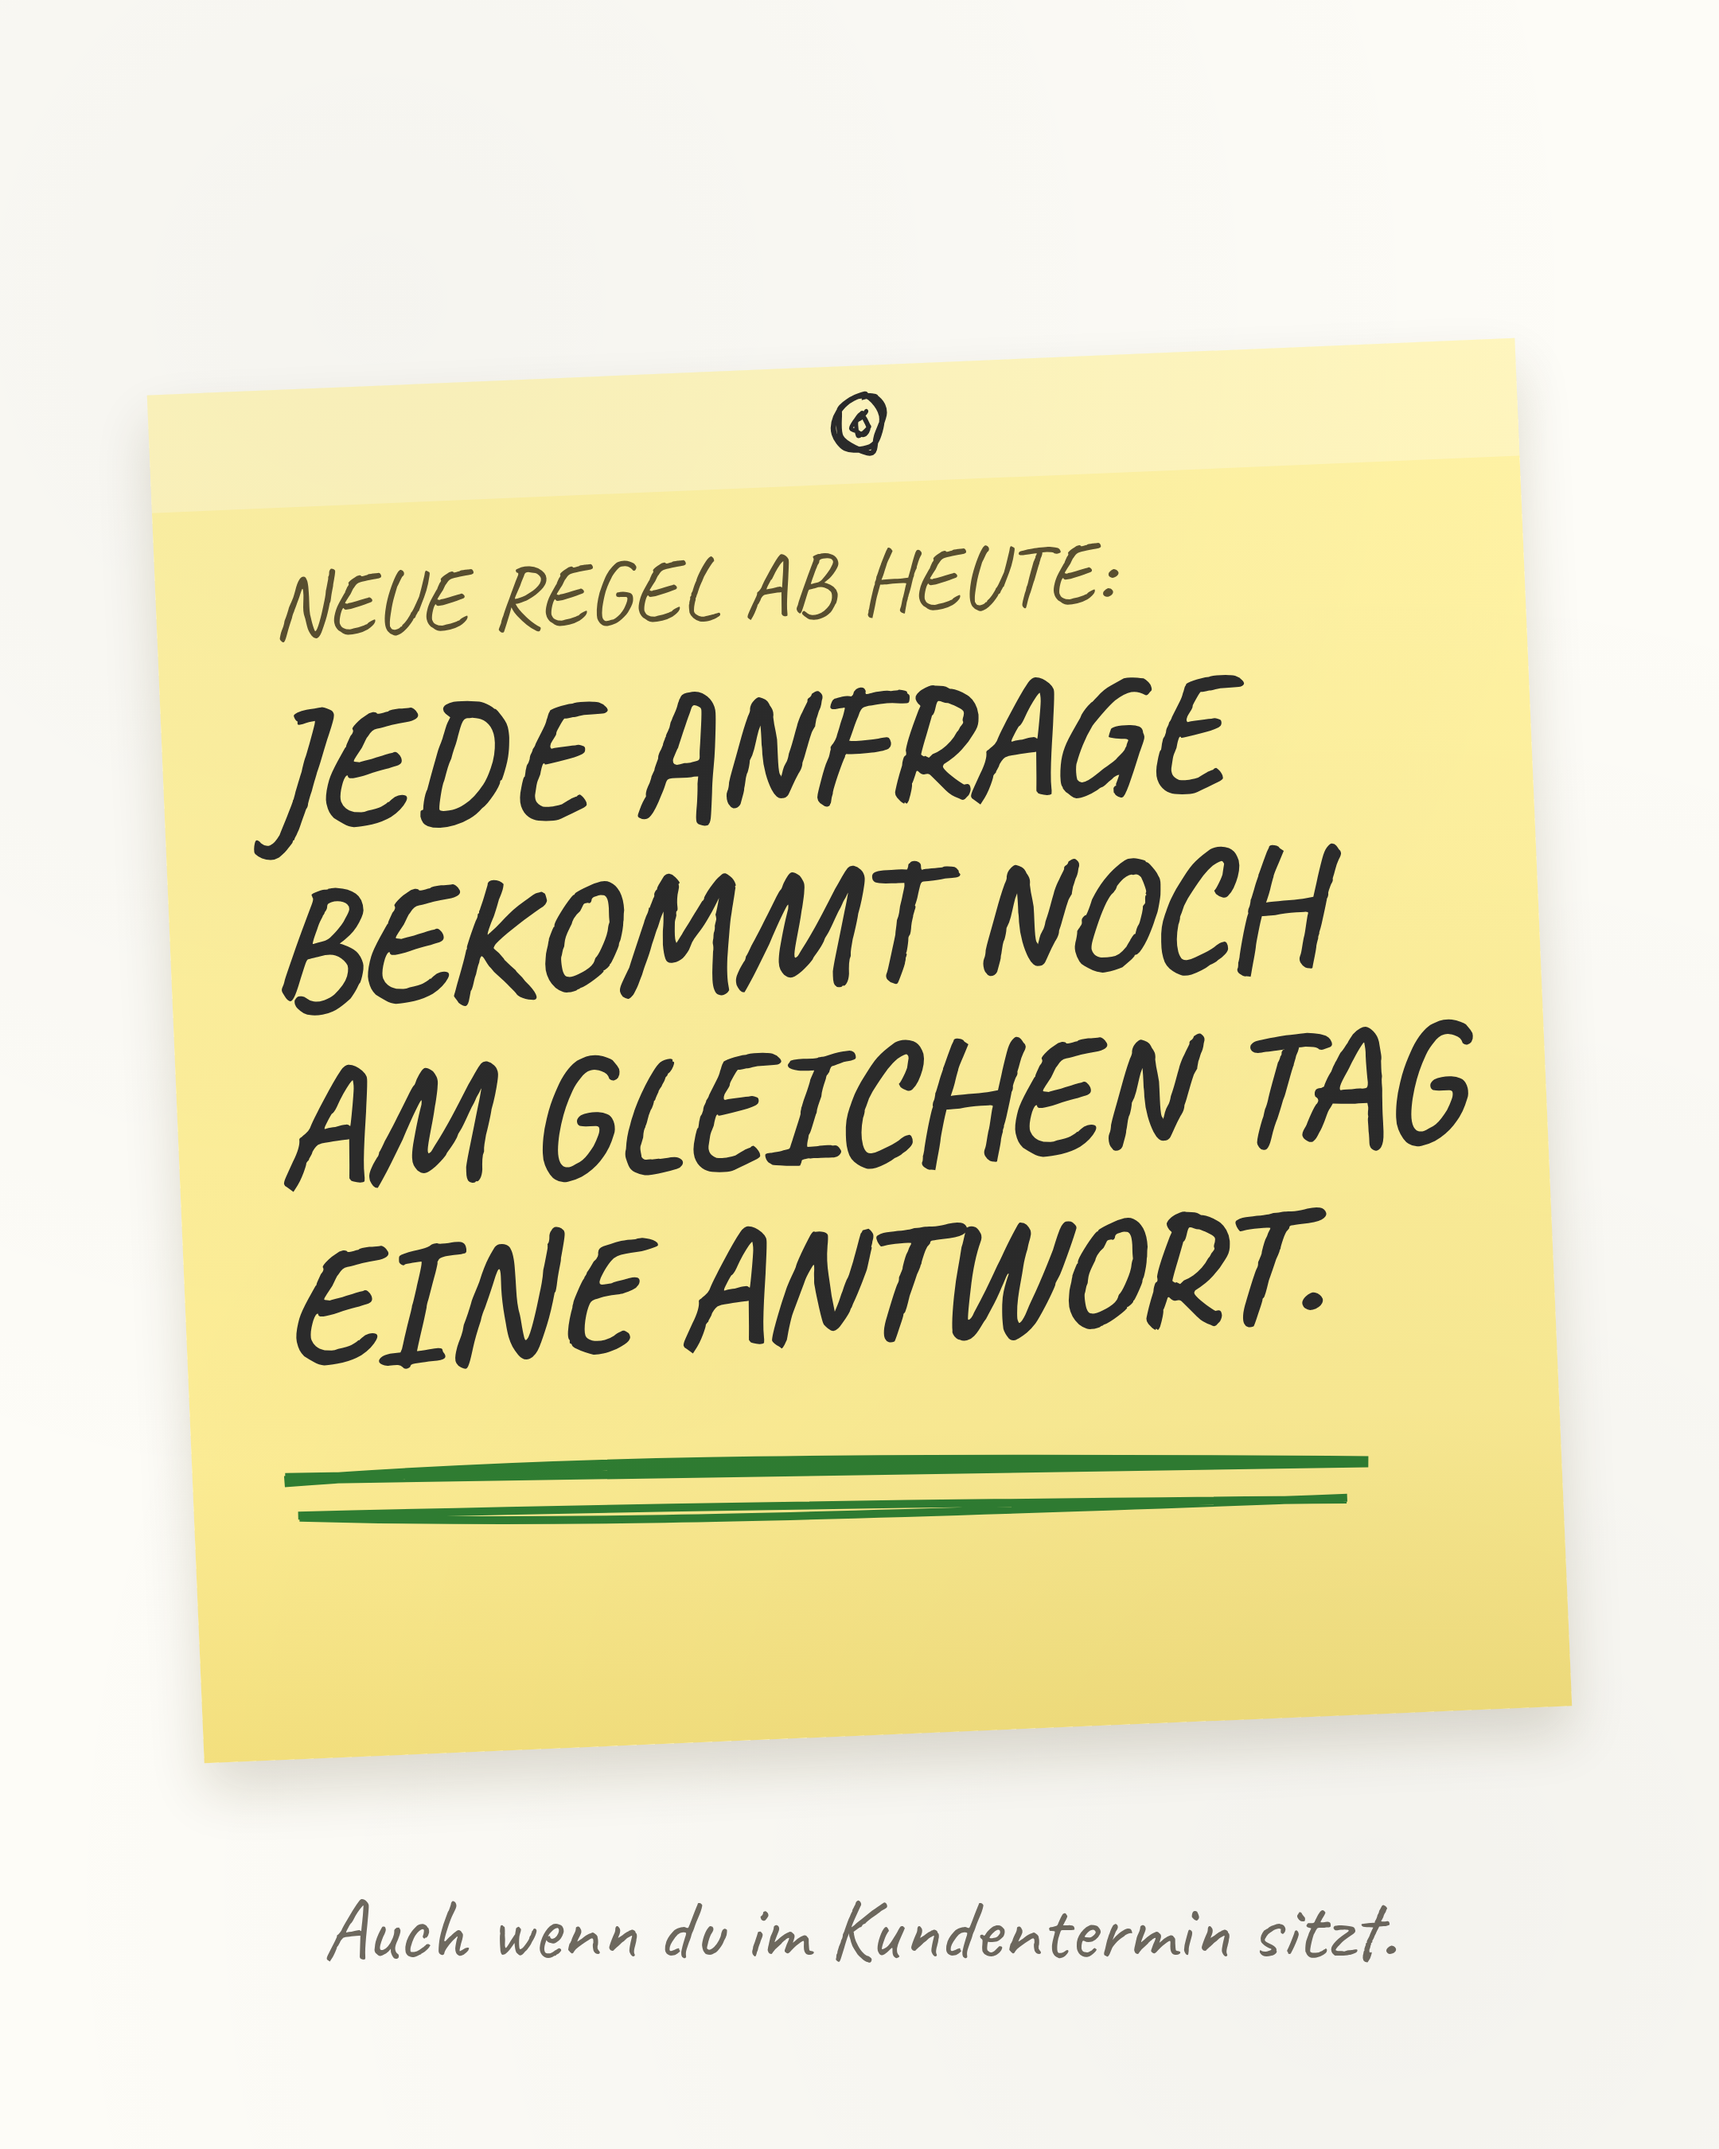
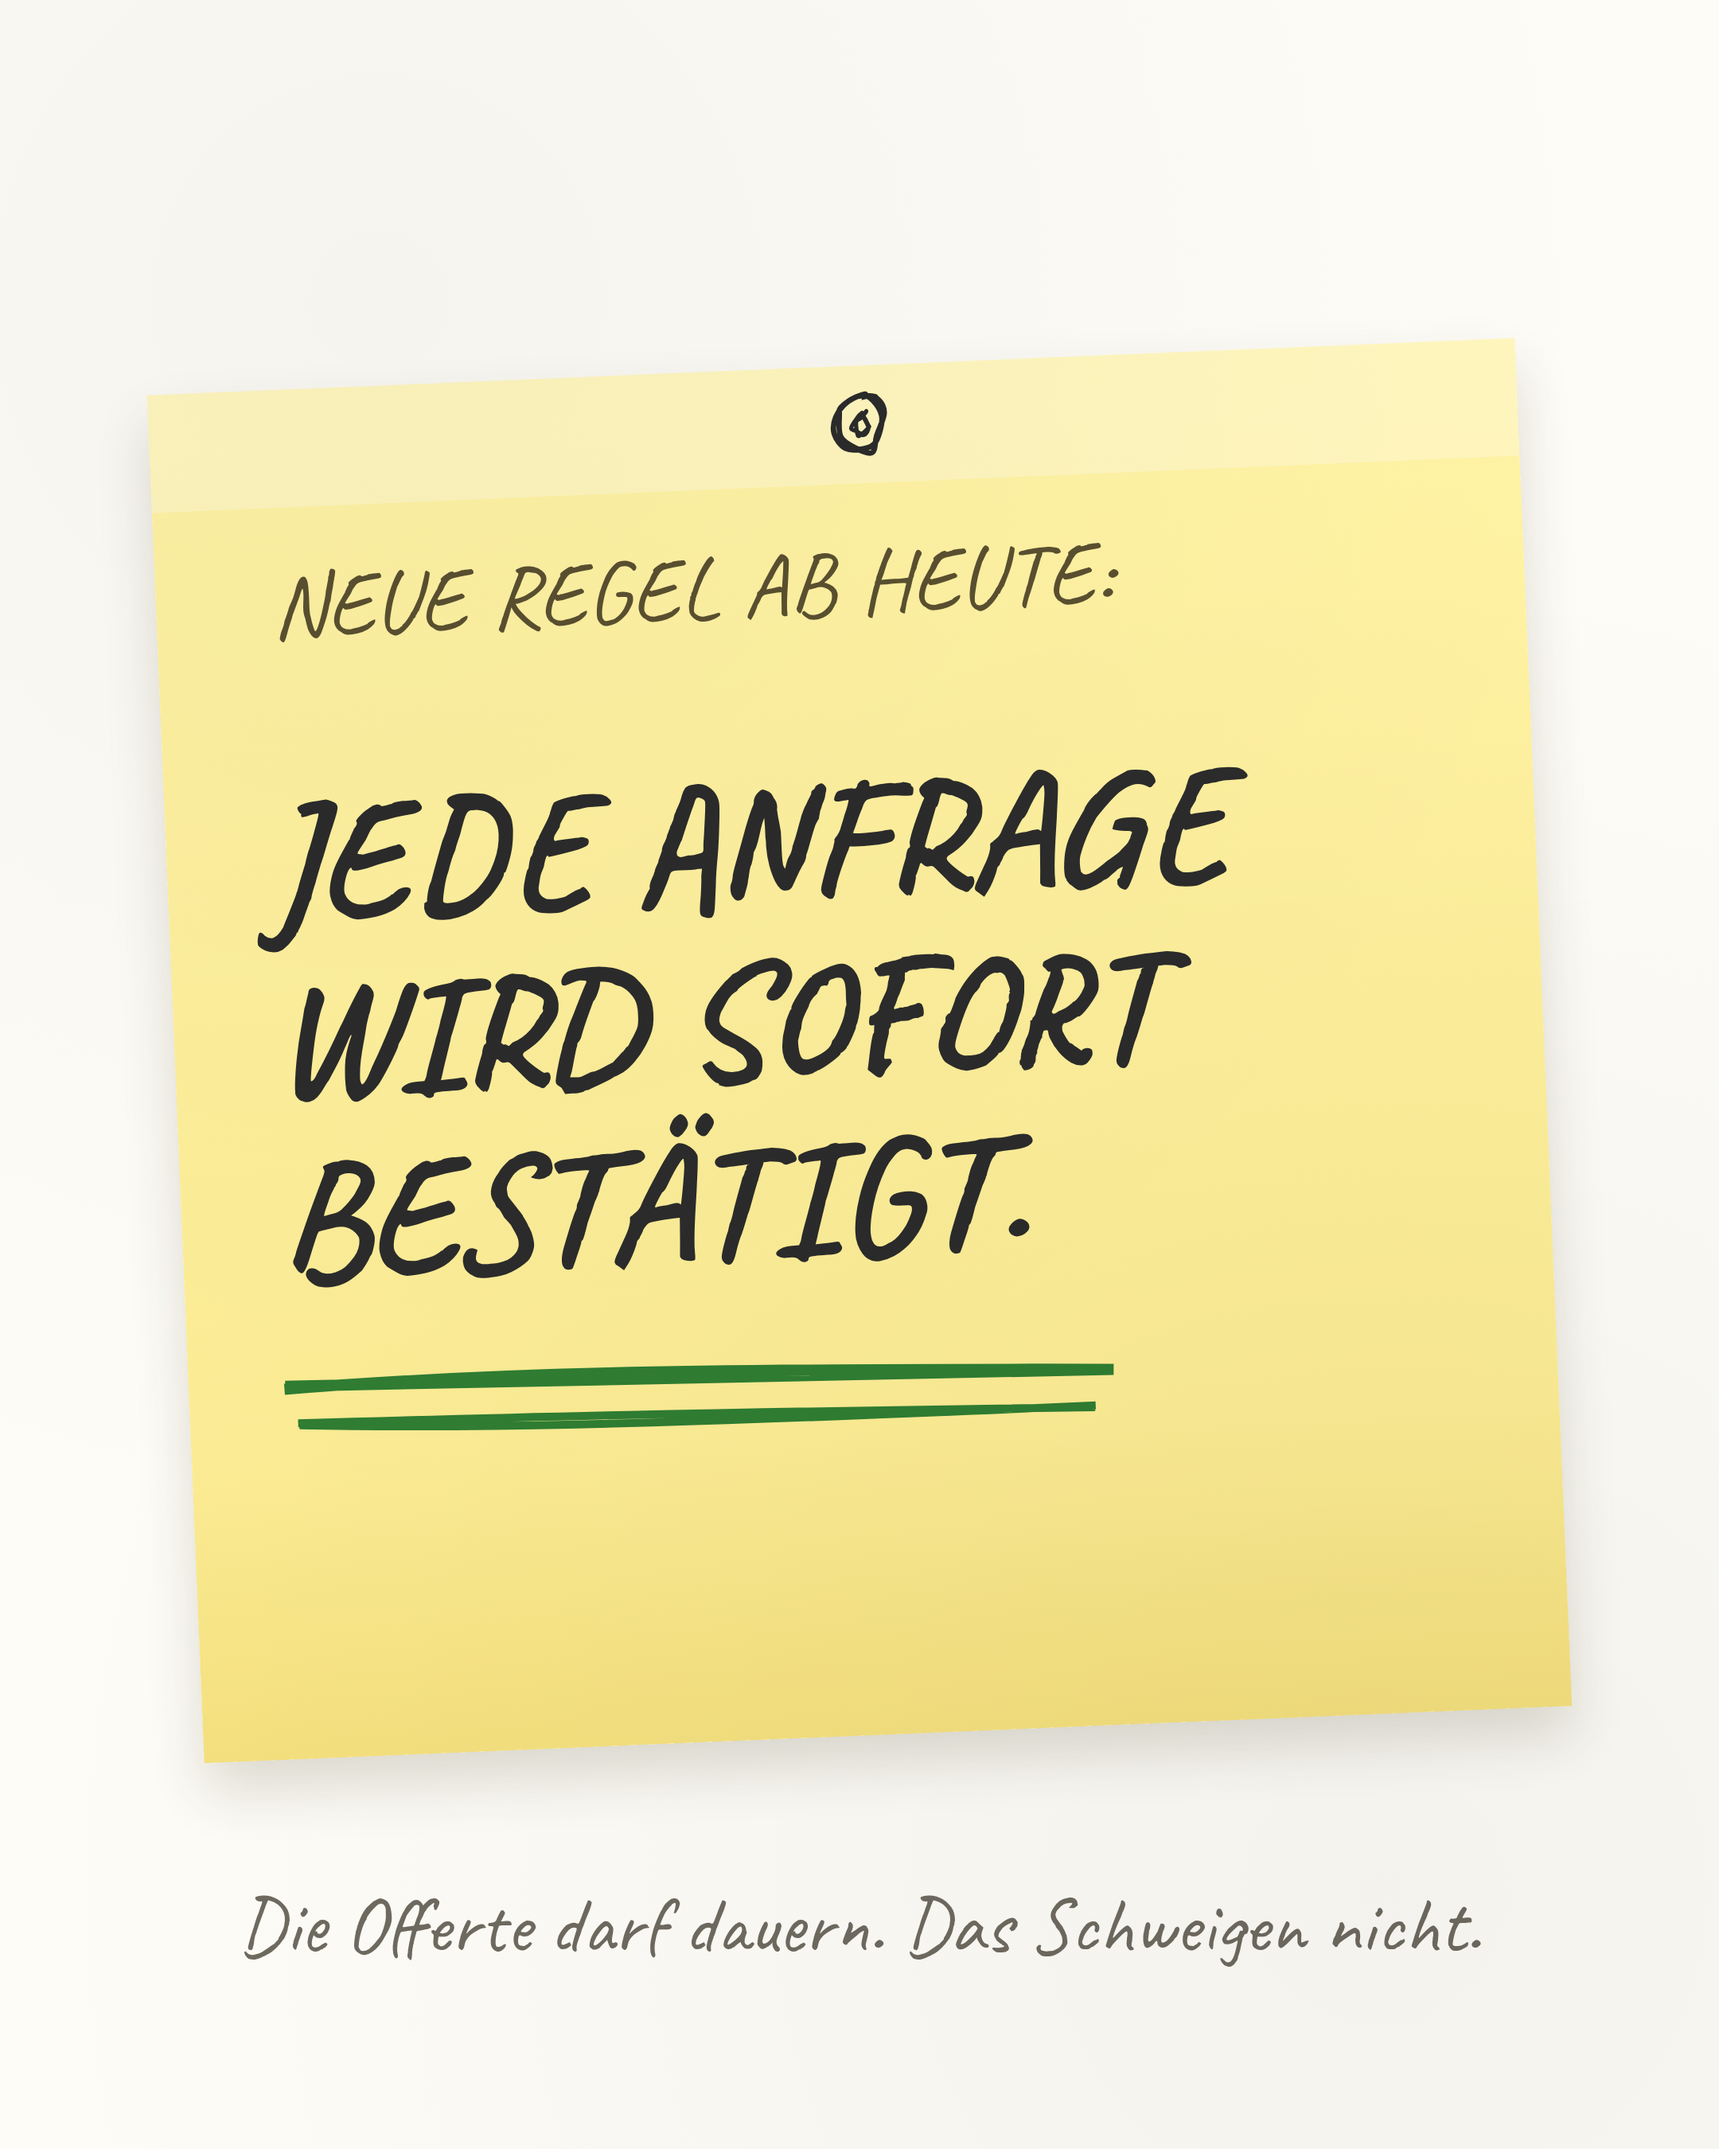
Post-it Logikfehler behoben, Kulissen-Format notiert
Zwei Widersprueche im Bild: ein Kundentermin hindert niemanden daran,
am selben Tag zu antworten, und eine automatische Eingangsbestaetigung
ist keine Antwort. Neu: "Jede Anfrage wird sofort bestaetigt" mit der
Unterzeile "Die Offerte darf dauern. Das Schweigen nicht."

Dazu Format 6 im Speicher: Blick hinter die Kulissen, inklusive Umbau
auf Fliesstext und Hinweis, wann es zu frueh dafuer ist.

Claude-Session: https://claude.ai/code/session_011uqJThEvfyZaZ27wjBcmdt

Changed region(s): [[0.1551, 0.3111, 0.8685, 0.7156], [0.1551, 0.8711, 0.8375, 0.9333]]

diff --git a/skizzen/bild-postit.html b/skizzen/bild-postit.html
@@ -14,18 +14,18 @@
 .note::before{content:'';position:absolute;left:0;right:0;top:0;height:74px;background:rgba(255,255,255,.28);}
 .k{position:absolute;left:170px;right:170px;top:330px;transform:rotate(-2.4deg);
  font-weight:400;font-size:56px;color:#5a5030;letter-spacing:1px;}
-.t{position:absolute;left:170px;right:150px;top:412px;transform:rotate(-2.4deg);
+.t{position:absolute;left:170px;right:150px;top:470px;transform:rotate(-2.4deg);
  font-weight:700;font-size:104px;line-height:1.08;color:#2b2b2b;}
 .sub{position:absolute;left:80px;right:80px;top:1178px;text-align:center;
- font-weight:400;font-size:54px;color:#6f6a60;white-space:nowrap;}
+ font-weight:400;font-size:50px;color:#6f6a60;white-space:nowrap;}
 svg{position:absolute;left:0;top:0;width:1080px;height:1350px;}
 </style></head><body>
 <div class="s">
   <div class="note"></div>
   <svg id="a" viewBox="0 0 1080 1350"></svg>
   <div class="k">NEUE REGEL AB HEUTE:</div>
-  <div class="t">JEDE ANFRAGE<br>BEKOMMT NOCH<br>AM GLEICHEN TAG<br>EINE ANTWORT.</div>
-  <div class="sub">Auch wenn du im Kundentermin sitzt.</div>
+  <div class="t">JEDE ANFRAGE<br>WIRD SOFORT<br>BESTÄTIGT.</div>
+  <div class="sub">Die Offerte darf dauern. Das Schweigen nicht.</div>
 </div>
 <script src="node_modules/roughjs/bundled/rough.js"></script>
 <script>
@@ -33,8 +33,8 @@ const A=document.getElementById('a'), r=rough.svg(A);
 const o=(c,w,s)=>({stroke:c,strokeWidth:w||3,roughness:2.1,bowing:2.2,seed:s||7});
 const add=n=>A.appendChild(n);
 // gruene Doppel-Unterstreichung unter "AM GLEICHEN TAG" (Zeile 3 der Note)
-add(r.line(178,930,860,918,o('#2f7d32',7,11)));
-add(r.line(188,952,846,942,o('#2f7d32',5,12)));
+add(r.line(178,872,700,860,o('#2f7d32',7,11)));
+add(r.line(188,894,688,884,o('#2f7d32',5,12)));
 // Reisszwecke oben mittig auf der Note
 add(r.circle(540,266,34,o('#2b2b2b',3.4,21)));
 add(r.circle(540,266,10,o('#2b2b2b',2.6,22)));

diff --git a/wissen/formate.md b/wissen/formate.md
@@ -99,3 +99,35 @@ Der Handwerker-Hintergrund ist Beleg, nie Vorstellung. Konkret:
 - In Posts gilt zusaetzlich die alte Regel: das erste Wort gehoert dem Leser, nie "Ich".
 
 Grund: Der Hintergrund wirkt als beilaeufiger Beweis. Als Vorstellung wirkt er wie eine Bewerbung, und bei jeder Wiederholung verliert er.
+
+---
+
+## 6. Blick hinter die Kulissen (gemerkt am 02.09., noch nicht gelaufen)
+
+Von Florian aus dem Feed mitgebracht. Eine Ghostwriterin erklaert Schritt fuer
+Schritt, wie eine Zusammenarbeit mit ihr ablaeuft: Fragebogen, erste Strategie,
+Workshop, danach der monatliche Takt. Am Schluss eine Frage, die nichts mit dem
+Angebot zu tun hat.
+
+**Warum das interessant ist.** Es nimmt dem Interessenten die Angst vor dem
+ersten Schritt. Wer den Ablauf kennt, muss vor dem Erstgespraech nicht mehr
+raten, was auf ihn zukommt. Fuer eine kostenlose Prozessanalyse ist das der
+direkteste Weg von Neugier zu Termin.
+
+**Umbau fuer unsere Zielgruppe, zwingend.** Das Original ist eine Liste mit
+Emojis und in der Wir-Form. Beides floppt bei Handwerksinhabern (176, 109).
+Unsere Fassung: Fliesstext, keine Emojis, keine Aufzaehlung, der Ablauf als
+kurze Erzaehlung eines echten Termins. Also nicht "so laeuft es ab", sondern
+"letzte Woche sass ich bei einem Gipser am Tisch, und so ist es gelaufen".
+Damit wird aus dem Ablauf-Post wieder eine Story und die Nur-Story-Regel bleibt
+eingehalten.
+
+**Wann einsetzen.** Nicht als naechster Post. Er wirkt erst, wenn jemand schon
+Interesse hat, also nach ein paar Reichweiten-Posts oder wenn die ersten
+Anfragen kommen. Frueh eingesetzt beantwortet er eine Frage, die noch niemand
+gestellt hat.
+
+**Risiko.** Klingt schnell nach Verkaufsprospekt. Gegenmittel: eine konkrete
+Szene statt Prozessbeschreibung, und mindestens ein Satz darueber, was in der
+Analyse NICHT passiert (kein Verkaufsgespraech, keine Software-Empfehlung am
+ersten Tag).

diff --git a/posts/2026-09-03-kunde-merkt-es.md b/posts/2026-09-03-kunde-merkt-es.md
@@ -2,7 +2,7 @@
 
 Datum: 2026-09-03 (Donnerstag), 07:30
 Format: Story plus Post-it-Bild mit der Lösung, kleiner Pitch in der Mitte
-Bild: skizzen/bild-postit.png (gelbes Post-it, "Jede Anfrage bekommt noch am gleichen Tag eine Antwort")
+Bild: skizzen/bild-postit.png (gelbes Post-it, "Jede Anfrage wird sofort bestätigt", Unterzeile "Die Offerte darf dauern. Das Schweigen nicht.")
 Alternativbild: skizzen/bild-ruf.png (Zwei-Spalten-Skizze innen gegen aussen)
 Content-Säule: Schmerz-Story mit Giveaway-Schluss
 Thema: Ruf von aussen, komplett unbespielt (bisher alles Innensicht)
